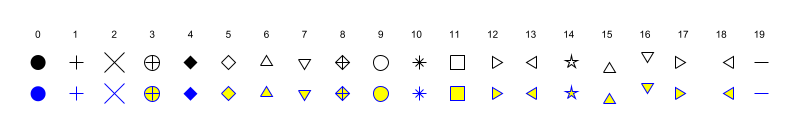
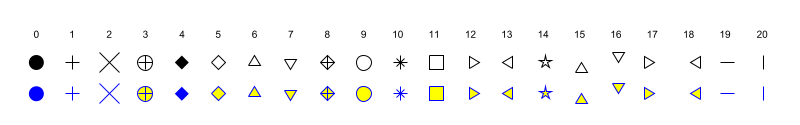
Add vertical line marker style (was missing in !422).
See https://gitlab.com/scilab/scilab/-/merge_requests/509

diff --git a/scilab/modules/renderer/src/java/org/scilab/modules/renderer/JoGLView/mark/MarkSpriteFactory.java b/scilab/modules/renderer/src/java/org/scilab/modules/renderer/JoGLView/mark/MarkSpriteFactory.java
@@ -158,6 +158,8 @@ public class MarkSpriteFactory {
                     return new TriangleLeftPickSpriteDrawer(appearance, finalSize);
                 case  19:
                     return new MinusSpriteDrawer(appearance, finalSize);
+                case  20:
+                    return new VerticalLineSpriteDrawer(appearance, finalSize);
 
                 default:
                     return new PlusSpriteDrawer(appearance, finalSize);
@@ -188,7 +190,7 @@ public class MarkSpriteFactory {
         public Dimension getTextureSize() {
 
             /** Add a margin such that (0, 0) was pixel aligned. */
-			int s = (int)((double)size * 1.5);
+            int s = (int)((double)size * 1.5);
             int margin;
             if (s % 2 == 0) {
                 margin = 3;
@@ -230,22 +232,6 @@ public class MarkSpriteFactory {
         @Override
         public void draw(TextureDrawingTools textureDrawingTools) {
             textureDrawingTools.drawPlus(size, appearance);
-        }
-    }
-
-    /**
-     * Minus sprite
-     * Scilab ID = 19
-     */
-    private static class MinusSpriteDrawer extends ScilabSpriteDrawer {
-
-        public MinusSpriteDrawer(Appearance appearance, int size) {
-            super(appearance, size);
-        }
-
-        @Override
-        public void draw(TextureDrawingTools textureDrawingTools) {
-            textureDrawingTools.drawMinus(size, appearance);
         }
     }
 
@@ -590,6 +576,38 @@ public class MarkSpriteFactory {
             super(appearance, size);
 
             coordinates = new int[] {basey + r, basex, 0, 0, basey + r, -basex};
+        }
+    }
+
+    /**
+     * Minus sprite
+     * Scilab ID = 19
+     */
+    private static class MinusSpriteDrawer extends ScilabSpriteDrawer {
+
+        public MinusSpriteDrawer(Appearance appearance, int size) {
+            super(appearance, size);
+        }
+
+        @Override
+        public void draw(TextureDrawingTools textureDrawingTools) {
+            textureDrawingTools.drawMinus(size, appearance);
+        }
+    }
+
+    /**
+     * Vertical line sprite
+     * Scilab ID = 20
+     */
+    private static class VerticalLineSpriteDrawer extends ScilabSpriteDrawer {
+
+        public VerticalLineSpriteDrawer(Appearance appearance, int size) {
+            super(appearance, size);
+        }
+
+        @Override
+        public void draw(TextureDrawingTools textureDrawingTools) {
+            textureDrawingTools.drawVerticalLine(size, appearance);
         }
     }
 

diff --git a/scilab/modules/scirenderer/src/java/org/scilab/forge/scirenderer/implementation/g2d/texture/G2DTextureDrawingTools.java b/scilab/modules/scirenderer/src/java/org/scilab/forge/scirenderer/implementation/g2d/texture/G2DTextureDrawingTools.java
@@ -114,10 +114,23 @@ public class G2DTextureDrawingTools implements TextureDrawingTools {
         }
     }
 
+    @Override
     public void drawMinus(int size, Appearance appearance) {
         if (size > 1) {
             int r = size / 2;
             int[] coords1 = new int[] { -r, 0, r, 0};
+
+            drawPolyline(coords1, appearance);
+        } else {
+            fillDisc(0, 0, 1, appearance.getLineColor());
+        }
+    }
+
+    @Override
+    public void drawVerticalLine(int size, Appearance appearance) {
+        if (size > 1) {
+            int r = size / 2;
+            int[] coords1 = new int[] { 0, -r, 0, r};
 
             drawPolyline(coords1, appearance);
         } else {

diff --git a/scilab/modules/scirenderer/src/java/org/scilab/forge/scirenderer/texture/BufferedImageTextureDrawingTools.java b/scilab/modules/scirenderer/src/java/org/scilab/forge/scirenderer/texture/BufferedImageTextureDrawingTools.java
@@ -101,6 +101,13 @@ public class BufferedImageTextureDrawingTools implements TextureDrawingTools {
     }
 
     @Override
+    public void drawVerticalLine(int size, Appearance appearance) {
+        int r = size / 2;
+        int[] coords1 = new int[] { 0, -r, 0, r};
+        drawPolyline(coords1, appearance);
+    }
+
+    @Override
     public void drawPolyline(int[] coordinates, Appearance appearance) {
         int nbPoint = coordinates.length / 2;
 

diff --git a/scilab/modules/scirenderer/src/java/org/scilab/forge/scirenderer/texture/TextureDrawingTools.java b/scilab/modules/scirenderer/src/java/org/scilab/forge/scirenderer/texture/TextureDrawingTools.java
@@ -43,6 +43,13 @@ public interface TextureDrawingTools {
     void drawMinus(int size, Appearance appearance);
 
     /**
+     * Draw a vertical line.
+     * @param size the vertical line size.
+     * @param appearance the used appearance.
+     */
+    void drawVerticalLine(int size, Appearance appearance);
+
+    /**
      * Draw a polyline.
      * @param coordinates polyline's point coordinates.
      * @param appearance  the used appearance.

diff --git a/scilab/modules/graphics/src/c/getHandleProperty/set_mark_style_property.c b/scilab/modules/graphics/src/c/getHandleProperty/set_mark_style_property.c
@@ -32,7 +32,7 @@
 #include "setGraphicObjectProperty.h"
 #include "graphicObjectProperties.h"
 
-#define MAX_MARK_STYLE 19
+#define MAX_MARK_STYLE 20
 
 /*------------------------------------------------------------------------*/
 int set_mark_style_property(void* _pvCtx, int iObjUID, void* _pvData, int valueType, int nbRow, int nbCol)

diff --git a/scilab/CHANGES.md b/scilab/CHANGES.md
@@ -31,10 +31,11 @@ In summary, the main new features and additions are:
 * Add headers as optional input argument in `http_*` functions.
 * Add cookie management in webtools module.
 * [ColPack](https://github.com/CSCsw/ColPack) graph coloring algorithms have been integrated.
-* New markers types added for polylines:
+* New markers types added for graphic objects:
   - triangles pointing to data: upward, downward, left, right,
-  - minus sign centered on data.
-  - `errbar()` function now uses "Minus-sign" marks.
+  - horizontal line (minus sign) centered on data,
+  - vertical line centered on data.
+* `errbar()` function now uses horiontal line marks.
 * <TODO>
 
 
